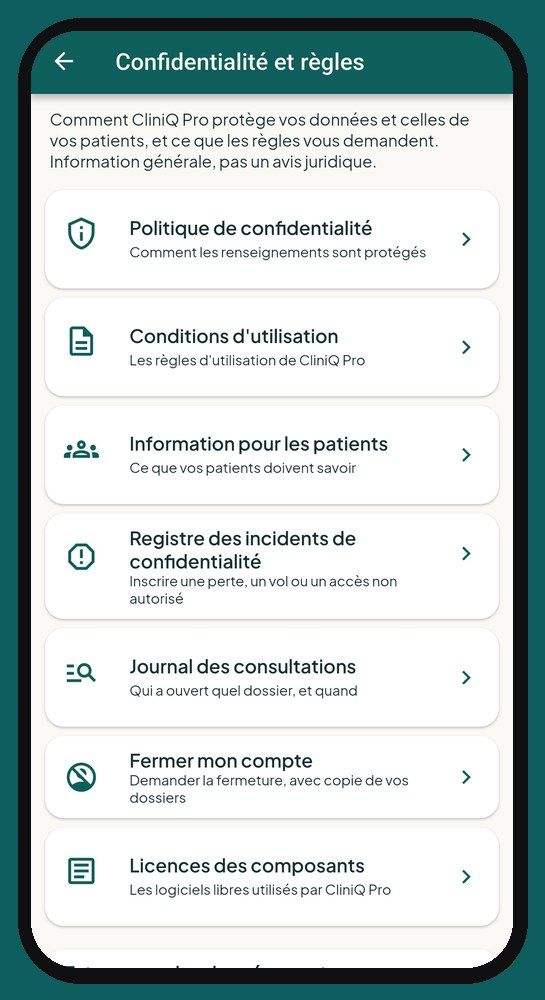
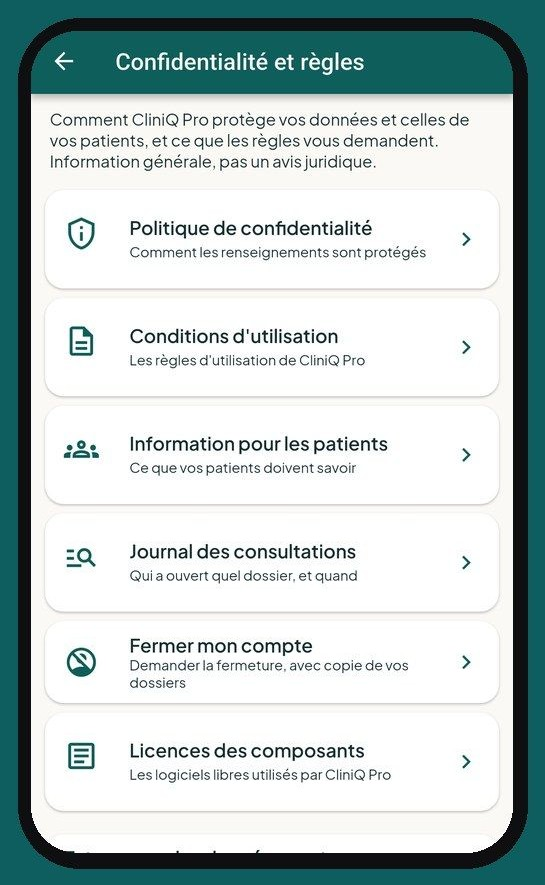
Capture Confidentialité et règles sans le registre des incidents (FR/EN)
Claude-Session: https://claude.ai/code/session_01Gq2MXuVTQe8dqY1iGkk7Hu

diff --git a/securite-loi-25.html b/securite-loi-25.html
@@ -75,7 +75,7 @@ footer a{color:#FFFFFF;padding:10px 0}
 <h2>Une application qui se verrouille toute seule</h2><p>Mot de passe ou empreinte à la réouverture, verrouillage après 15 minutes sans être touchée, double vérification par code, captures d'écran bloquées par défaut sur Android (vous pouvez les permettre en tout temps, par exemple pour demander de l'aide : Paramètres → Sécurité) et déconnexion à distance de vos autres appareils en cas de perte ou de vol.</p><figure><img src="img/securite.jpg" alt="Écran Sécurité de CliniQ Pro : double vérification, empreinte, captures d&#x27;écran, autres appareils" width="545" height="1000" loading="lazy"><figcaption>Écran Sécurité de CliniQ Pro&nbsp;: double vérification, empreinte, captures d&#x27;écran, autres appareils</figcaption></figure>
 <h2>Des notes que personne ne peut changer</h2><p>Une note finalisée est signée et verrouillée. Les corrections s'ajoutent en notes tardives, ce qui garde la trace de l'original. Les dossiers ne sont jamais effacés&nbsp;: on les archive.</p>
 <h2>Les consentements, notés et datés</h2><p>Consentement aux soins, ouverture du dossier, photos cliniques, communication à un tiers et rappels par texto&nbsp;: chaque réponse est gardée au dossier avec sa date, qu'elle vienne du patient ou de son représentant. Un retrait de consentement s'inscrit aussi.</p><figure><img src="img/consentements.jpg" alt="Consentements à demander dans CliniQ Pro (patiente fictive)" width="545" height="1000" loading="lazy"><figcaption>Consentements à demander dans CliniQ Pro (patiente fictive)</figcaption></figure>
-<h2>Tenue de dossiers et Loi 25&nbsp;: les registres déjà prêts</h2><p>Le journal des consultations (qui a ouvert quel dossier, et quand) et la trace de chaque copie de dossier remise à un patient sont tenus par l'application et ne peuvent être ni modifiés ni effacés.</p><figure><img src="img/confidentialite-regles.jpg" alt="Confidentialité et règles dans CliniQ Pro : politique, journal des consultations" width="545" height="1000" loading="lazy"><figcaption>Confidentialité et règles dans CliniQ Pro&nbsp;: politique, journal des consultations</figcaption></figure>
+<h2>Tenue de dossiers et Loi 25&nbsp;: les registres déjà prêts</h2><p>Le journal des consultations (qui a ouvert quel dossier, et quand) et la trace de chaque copie de dossier remise à un patient sont tenus par l'application et ne peuvent être ni modifiés ni effacés.</p><figure><img src="img/confidentialite-regles.jpg" alt="Confidentialité et règles dans CliniQ Pro : politique, journal des consultations" width="545" height="885" loading="lazy"><figcaption>Confidentialité et règles dans CliniQ Pro&nbsp;: politique, journal des consultations</figcaption></figure>
 <h2>Transparence sur les services externes</h2><p>Une note clinique n'est envoyée à un service d'intelligence artificielle que si vous utilisez l'assistant de rédaction : ce que vous lui donnez est alors traité par OpenAI (États-Unis). Rien ne doit y permettre d'identifier le patient : ni nom, ni adresse, ni visage ou autre détail reconnaissable sur les photos. Pour le calcul des trajets, seules les adresses sont transmises, sans nom ni soins. Les rappels par texto ne contiennent jamais le nom du patient ni ses soins. La liste complète est dans notre <a href="confidentialite.html">politique de confidentialité</a>.</p>
 <h2>Infirmières, infirmières auxiliaires et soins à domicile : la Loi 25 sur la route</h2>
 <p>À domicile, vos dossiers voyagent avec vous, dans l'auto et chez le patient. C'est là que les risques sont les plus grands&nbsp;: un téléphone oublié, une feuille qui traîne sur le siège, un membre de la famille qui répond au téléphone. CliniQ Pro est pensée pour ce quotidien&nbsp;:</p>

diff --git a/en/security-privacy.html b/en/security-privacy.html
@@ -75,7 +75,7 @@ footer a{color:#FFFFFF;padding:10px 0}
 <h2>An app that locks itself</h2><p>Password or fingerprint when reopening, lock after 15 minutes untouched, two-step verification by code, screenshots blocked by default on Android (you can allow them at any time, for example to ask for help: Settings → Security), and remote sign-out of your other devices if your phone is lost or stolen.</p><figure><img src="../img/en/securite.jpg" alt="CliniQ Pro Security screen: two-step verification, fingerprint, screenshots, other devices" width="545" height="1000" loading="lazy"><figcaption>CliniQ Pro Security screen: two-step verification, fingerprint, screenshots, other devices</figcaption></figure>
 <h2>Notes nobody can change</h2><p>A finalized note is signed and locked. Corrections are added as late entries, which keeps the original. Records are never erased: they are archived.</p>
 <h2>Consents, recorded and dated</h2><p>Consent to care, opening the record, clinical photos, sharing with a third party and text reminders: each answer stays in the record with its date, whether it comes from the patient or a representative. A withdrawal of consent is recorded too.</p><figure><img src="../img/en/consentements.jpg" alt="Consents to ask for in CliniQ Pro (fictional patient)" width="545" height="1000" loading="lazy"><figcaption>Consents to ask for in CliniQ Pro (fictional patient)</figcaption></figure>
-<h2>Record keeping and privacy: the required registers, ready to use</h2><p>The access log (who opened which record, and when) and the record of every copy handed to a patient are kept by the app and can be neither changed nor erased.</p><figure><img src="../img/en/confidentialite-regles.jpg" alt="Privacy and rules in CliniQ Pro: policy, access log" width="545" height="1000" loading="lazy"><figcaption>Privacy and rules in CliniQ Pro: policy, access log</figcaption></figure>
+<h2>Record keeping and privacy: the required registers, ready to use</h2><p>The access log (who opened which record, and when) and the record of every copy handed to a patient are kept by the app and can be neither changed nor erased.</p><figure><img src="../img/en/confidentialite-regles.jpg" alt="Privacy and rules in CliniQ Pro: policy, access log" width="545" height="892" loading="lazy"><figcaption>Privacy and rules in CliniQ Pro: policy, access log</figcaption></figure>
 <h2>Clear about outside services</h2><p>A clinical note is sent to an artificial intelligence service only if you use the note-writing assistant: what you give it is then processed by OpenAI (United States). Nothing in it may identify the patient: no name, no address, and no face or other recognizable detail in the photos. For travel calculations, only addresses are sent, with no name or care details. Text reminders never contain the patient's name or care. The full list is in our <a href="privacy.html">privacy policy</a>.</p>
 <h2>Nurses, practical nurses and home care: privacy on the road</h2>
 <p>In home care, your records travel with you, in the car and at the patient's home. That is where the risks are greatest: a forgotten phone, a sheet left on the seat, a family member who answers the phone. CliniQ Pro is designed for that reality:</p>
